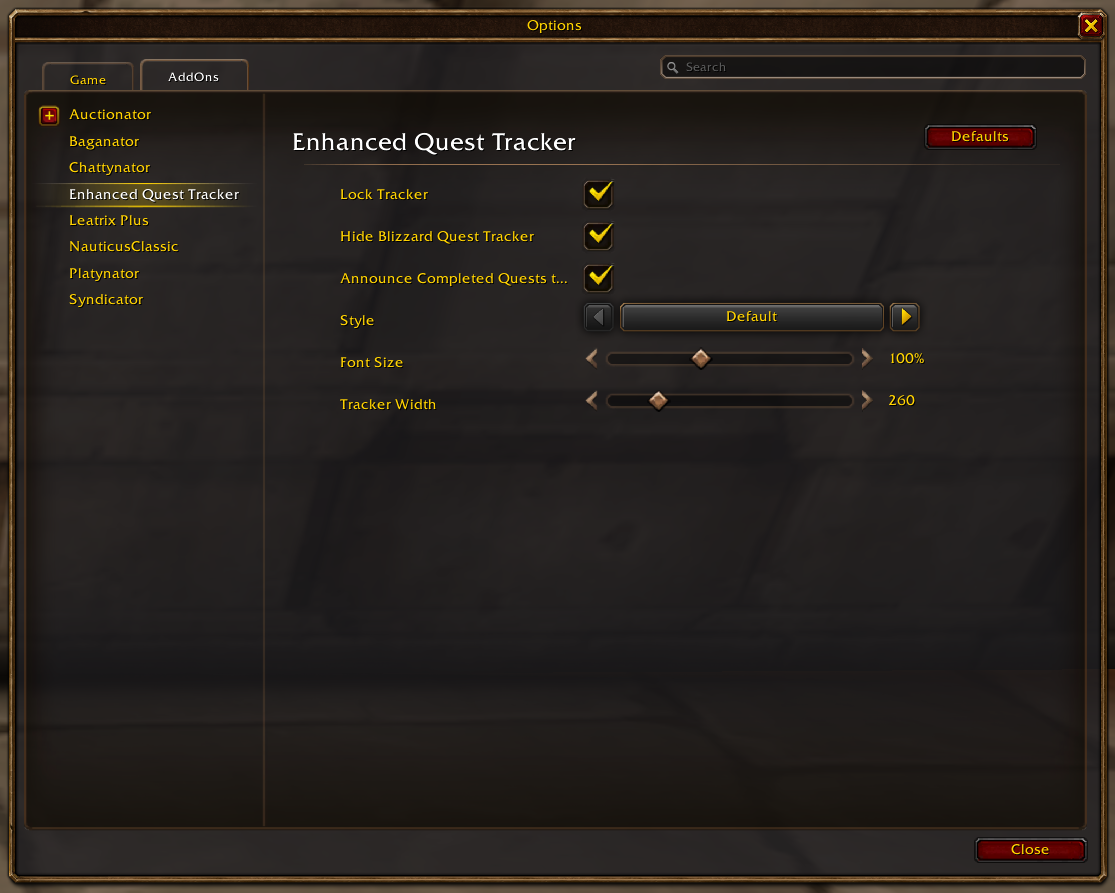
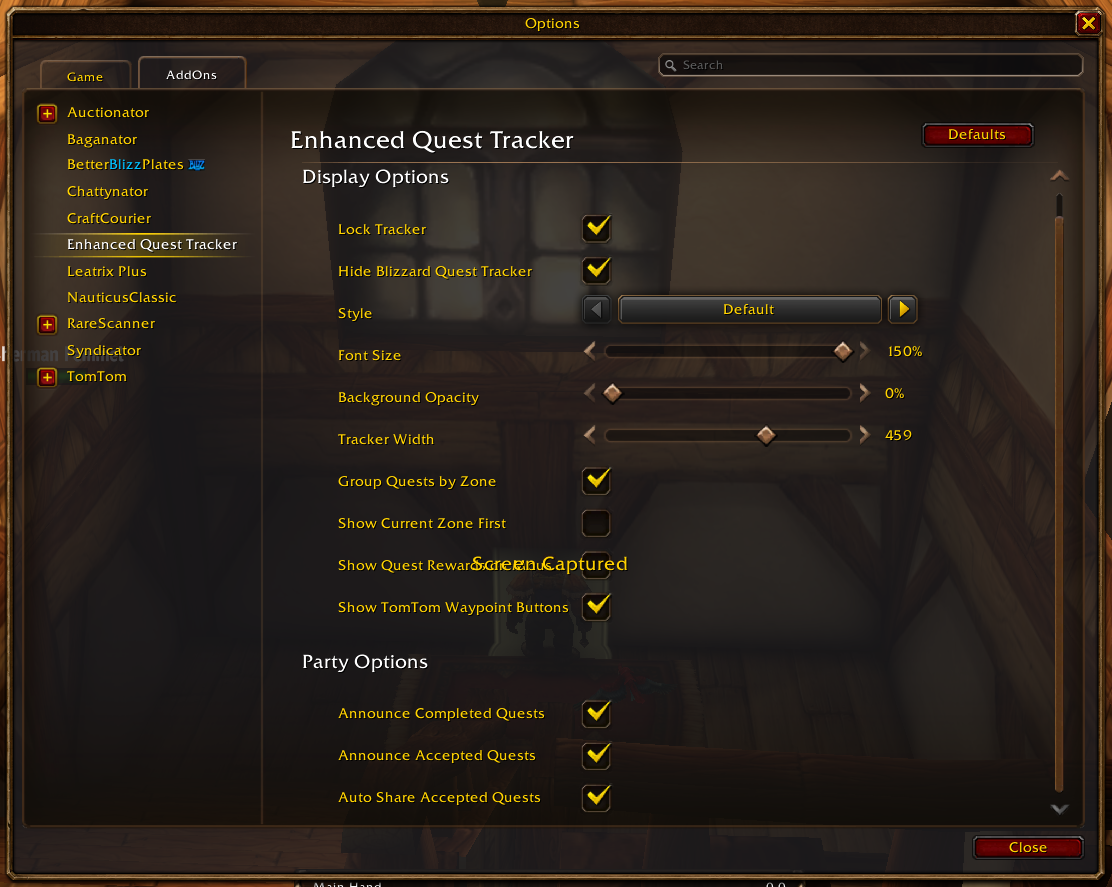
Group by zone and zone sorted first options

diff --git a/README.md b/README.md
@@ -3,7 +3,7 @@
 Goal is to create a questie style quest tracker UI element.
 
 Core Features
-- Collapsable Sections by quest zone
+- Collapsable Sections by quest zone (optional), with the current zone optionally first
 - Quests ordered by quest level ascending
 
 ## Layout
@@ -36,11 +36,13 @@ Quest clicks: left-click opens the quest, Shift-click untracks (or links it if y
 Style: Options > AddOns > Enhanced Quest Tracker has a Style dropdown to change how the tracker looks. "Default" looks like Blizzard's quest tracker (header bars, quest map icons you can click to focus a quest, check marks on finished objectives, item buttons on the right) but keeps the zone groups; click a zone's bar to collapse it, or the button on the top bar to collapse or expand every zone. "QuestieLike - High Contrast" outlines all tracker text so it's easier to read over the game world.
 
 Options: Options > AddOns > Enhanced Quest Tracker has two sections.
-- Display Options: Lock Tracker, Hide Blizzard Quest Tracker, Style, Font Size (70–150%; row spacing and quest item buttons scale with it), Background Opacity (0–100%, default 0%), Tracker Width, Show Quest Rewards on Mouse Over (off by default; rewards come from `Data:GetRewards` and are added below party progress in the quest tooltip), and Show TomTom Waypoint Buttons (only registered when TomTom is loaded).
+- Display Options: Lock Tracker, Hide Blizzard Quest Tracker, Style, Font Size (70–150%; row spacing and quest item buttons scale with it), Background Opacity (0–100%, default 0%), Tracker Width, Group Quests by Zone (on by default; when off, `Data:GetZones` returns a single group with no name and no header is drawn), Show Current Zone First (off by default; only applies when grouping by zone), Show Quest Rewards on Mouse Over (off by default; rewards come from `Data:GetRewards` and are added below party progress in the quest tooltip), and Show TomTom Waypoint Buttons (only registered when TomTom is loaded).
 - Party Options (party only, not raids): Announce Completed Quests (on by default), Announce Accepted Quests and Auto Share Accepted Quests (both off by default).
 
 Party announcements and sharing: completed quests are detected by `Announce:Scan` on quest log updates; accepted quests come from `QUEST_ACCEPTED`. Auto share skips quests that were shared with you, detected in `QUEST_DETAIL` by the quest giver being a player.
 
 TomTom: `TomTom` is an `OptionalDeps` in the .toc so it loads first. With TomTom loaded, quests with a known location get a map button at the right of the quest name that sets a TomTom waypoint (and points the arrow) to the quest; while it's set the button shows a red X that removes it. `RemoveWaypoint`/`ClearAllWaypoints` are hooked so the button resets when TomTom removes the waypoint itself (e.g. on arrival). The location comes from `C_QuestLog.GetNextWaypoint`, falling back to the quest's POI in `C_QuestLog.GetQuestsOnMap` for the player's map and its parents. Quests without a location have no button; `QUEST_POI_UPDATE` refreshes the tracker when location data loads. `Waypoint:Update` runs on each debounced refresh: it moves the waypoint when the quest's location changes (an objective updates or it becomes ready to hand in) and removes it once the quest leaves the log (handed in or abandoned). Setting a waypoint also focuses the quest (`C_SuperTrack.SetSuperTrackedQuestID`); on `SUPER_TRACKING_CHANGED`, the waypoint is cancelled if its quest is no longer focused. Cancelling the waypoint leaves the focus alone.
+
+Zone groups: each group has a `key` its collapsed state is saved under in `collapsed` (the zone name, or `*all*` for the single ungrouped list). Show Current Zone First finds the player's zone through `C_Map.GetBestMapForUnit`, moving up from Micro (building) maps to their parent zone, because `GetRealZoneText` gives the building name indoors (e.g. "Lakeshire Inn"). The name is matched against the quest log's zone headers.
 
 Drag the grip in the bottom-right corner to resize; scroll with the mouse wheel when the list is taller than the window.

diff --git a/CURSE.md b/CURSE.md
@@ -6,8 +6,8 @@ Enhanced Quest Tracker gives you the tracker side of Questie without its quest d
 
 ## Features
 
-- **Grouped by zone.** Each zone has its own section that you can collapse, and one button collapses or expands all of them.
-- **Sorted by level.** Quests are listed from lowest to highest level within each zone.
+- **Grouped by zone.** Each zone has its own section that you can collapse, and one button collapses or expands all of them. You can also keep the zone you're in at the top, or turn grouping off to show one list.
+- **Sorted by level.** Quests are listed from lowest to highest level within each zone, or across all of them when grouping is off.
 - **Quest item buttons.** If a quest has a usable item, a button appears next to the quest name. Click it to use the item. The button goes away when the quest is complete.
 - **Party progress.** A blue `(+N)` after a quest shows how many party members also have it. Hover the quest to see how far along they are.
 - **TomTom waypoints.** If you have TomTom installed, a map button next to each quest with a known location sets a TomTom waypoint to it. Setting a waypoint also focuses the quest. While the waypoint is set, the button turns into a red X that cancels it. The waypoint moves when you complete an objective, and it's removed when you hand the quest in or stop focusing it. You can turn the buttons off in the options.
@@ -40,6 +40,8 @@ Everything is in **Options > AddOns > Enhanced Quest Tracker**, split into two s
 - **Font Size:** 70–150%. Row spacing and item buttons scale along with the text.
 - **Background Opacity:** 0–100%. The default is 0% (fully transparent).
 - **Tracker Width**
+- **Group Quests by Zone:** show quests under collapsible zone headers. When it's off, all quests are listed together, sorted by level. On by default.
+- **Show Current Zone First:** when grouping by zone, put the zone you're in at the top. Off by default.
 - **Show Quest Rewards on Mouse Over:** hover a quest to see its rewards. In a party, they show below your party's progress. Off by default.
 - **Show TomTom Waypoint Buttons:** only shown if TomTom is installed. On by default.
 
